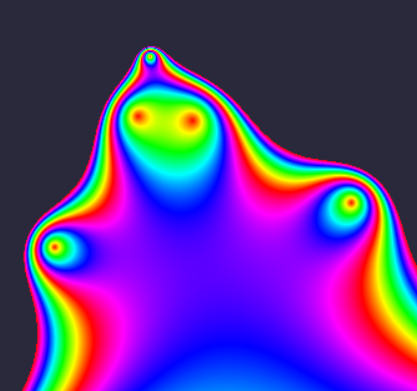
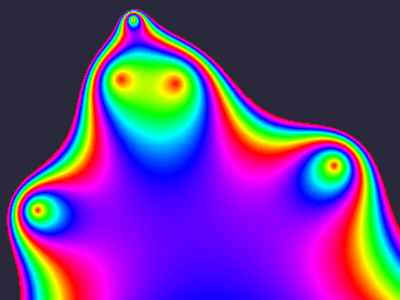
added twitter seo tags

diff --git a/pages/index.js b/pages/index.js
@@ -31,21 +31,18 @@ export default function Home() {
         <meta property="og:description" content="A generalized admin dashboard built with production ready technologies" />
         <meta property="og:image" content="https://over-engineered.vercel.app/assets/og.png" />
         <meta property="og:image:type" content="image/png" />
-        <meta property="og:image:width" content="417" />
-        <meta property="og:image:height" content="391" />
+        <meta property="og:image:width" content="400" />
+        <meta property="og:image:height" content="300" />
+
+        <meta name="twitter:title" content="Admin Panel | Over Engineered" />
+        <meta name="twitter:description" content="A generalized admin dashboard built with production ready technologies" />
+        <meta name="twitter:image" content="https://over-engineered.vercel.app/assets/og.png" />
+        <meta property="twitter:image:type" content="image/png" />
+        <meta property="twitter:image:width" content="400" />
+        <meta property="twitter:image:height" content="300" />
 
         <meta property="og:url" content="https://over-engineered.vercel.app" />
         <meta property="og:type" content="website" />
-
-        {/* <meta name="twitter:title" content="My Pets Life" /> */}
-        {/* <meta name="twitter:description" content="Never Miss Your Pet's Schedule and Activity" /> */}
-        {/* <meta name="twitter:image" content="https://d2m3ee76kdhdjs.cloudfront.net/static_assets/1200*630.png" /> */}
-        {/* <meta name="twitter:image" content="https://d3vtczj1cfkpaj.cloudfront.net/assets/ogimage-min.jpg" /> */}
-        {/* <meta name="twitter:image" content="https://s3.ap-south-1.amazonaws.com/techgabbar.com/assets/websit-og-image-min.png" /> */}
-        {/* <meta name="twitter:image" content="https://s3.ap-south-1.amazonaws.com/techgabbar.com/assets/wesbite-og-image.png" /> */}
-        {/* <meta property="twitter:image:type" content="image/png" /> */}
-        {/* <meta property="twitter:image:width" content="800" /> */}
-        {/* <meta property="twitter:image:height" content="800" /> */}
 
       </Head>
 

diff --git a/next.config.js b/next.config.js
@@ -2,6 +2,31 @@
 const nextConfig = {
   reactStrictMode: true,
   swcMinify: true,
+
+  images: {
+    remotePatterns: [
+      {
+        protocol: 'https',
+        hostname: 'lh3.googleusercontent.com',
+      },
+      {
+        protocol: 'https',
+        hostname: 'd1rqe5eqrx4sjq.cloudfront.net',
+      },
+      {
+        protocol: 'https',
+        hostname: 'd1rqe5eqrx4sjq.cloudfront.net',
+      },
+      {
+        protocol: 'https',
+        hostname: 'www.vondelgym.nl',
+      },
+      {
+        protocol: 'https',
+        hostname: 'doraemon-pocket.s3.ap-northeast-1.amazonaws.com',
+      },
+    ],
+  },
 }
 
 module.exports = nextConfig

diff --git a/components/Dashboard.jsx b/components/Dashboard.jsx
@@ -28,7 +28,9 @@ const Dashboard = () => {
           ? (<div className='flex gap-x-4 gap-y-6 flex-wrap '>
             {data.reverse().map(gym => (
               gym.images.map(url => (
-                <img key={url} className='h-32 rounded-xl shadow-md' src={url} alt={url}></img>
+                <div key={url}>
+                  <img className='h-32 rounded-xl shadow-md' src={url} alt={url}></img>
+                </div>
               ))
             ))}
           </div>)
